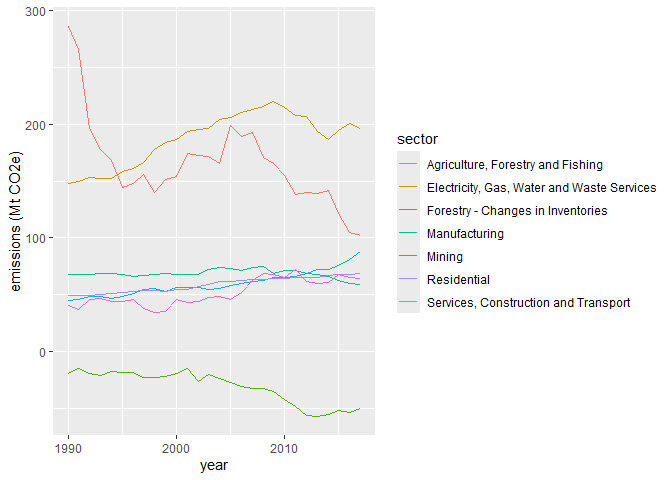
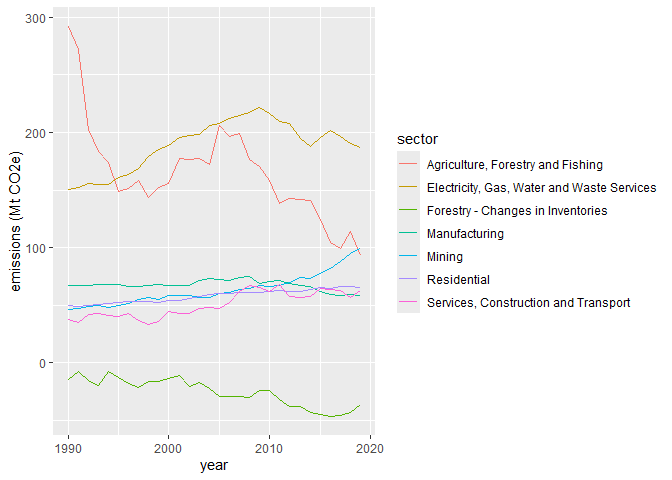
update NGA data to 2022

diff --git a/R/reports/reports.md b/R/reports/reports.md
@@ -1,6 +1,6 @@
 # R reproducible reports with Quarto
 UQ Library
-2024-10-08
+2024-10-10
 
 - [Setting up](#setting-up)
 - [What are we going to learn?](#what-are-we-going-to-learn)
@@ -123,9 +123,9 @@ We are going to deal with greenhouse gas emissions for Australia, so
 let’s add a header and some text about the source of the data and how to
 import it. For example:
 
-    ## National Greenhouse Gas Inventory data
+    ## National Greenhouse Gas data
 
-    Our data comes from the NGA, and is released under a [CC-BY](https://creativecommons.org/licenses/by/4.0/) licence. The latest release can be found on [this page](https://www.industry.gov.au/data-and-publications/national-inventory-reports)
+    Our data is extracted from the _National Inventory by Economic Sector_ dataset, which is part of the _National Greenhouse Accounts_, and is released under a [CC-BY](https://creativecommons.org/licenses/by/4.0/) licence. The latest release can be found on [this page](https://www.dcceew.gov.au/climate-change/publications/national-greenhouse-accounts-2022/national-inventory-by-economic-sector-2022).
 
     The values are reported in Mt CO<sub>2</sub>-e.
 
@@ -163,11 +163,11 @@ Now, try to render the document and see what it looks like.
 #### Challenge 2
 
 Inside a new chunk, add some code to import the dataset located
-[here](https://raw.githubusercontent.com/uqlibrary/technology-training/master/R/reports/aus_ghg_2017.csv)
+[here](https://raw.githubusercontent.com/uqlibrary/technology-training/master/R/reports/aus_ghg_2019.csv)
 into an object called `ghg`.
 
 ``` r
-ghg <- read_csv("https://raw.githubusercontent.com/uqlibrary/technology-training/master/R/reports/aus_ghg_2017.csv")
+ghg <- read_csv("https://raw.githubusercontent.com/uqlibrary/technology-training/master/R/reports/aus_ghg_2019.csv")
 ```
 
 > Clicking “Render” will automatically save your `.qmd` file as well as
@@ -179,20 +179,20 @@ Now, we can add a chunk to show the data, by including this code in it:
 ghg
 ```
 
-    # A tibble: 28 × 8
+    # A tibble: 30 × 8
         year Agriculture, Forestry and…¹ Forestry - Changes i…² Mining Manufacturing
        <dbl>                       <dbl>                  <dbl>  <dbl>         <dbl>
-     1  1990                        286.                  -19.1   44.6          68.0
-     2  1991                        266.                  -14.8   46.1          67.9
-     3  1992                        197.                  -19.7   48.5          68.1
-     4  1993                        178.                  -21.1   48.8          68.5
-     5  1994                        168.                  -17.6   46.7          68.3
-     6  1995                        144.                  -18.3   48.7          68.1
-     7  1996                        148.                  -18.1   51.0          66.2
-     8  1997                        156.                  -22.6   54.4          66.9
-     9  1998                        140.                  -22.5   55.4          67.5
-    10  1999                        151.                  -22.0   53.0          68.8
-    # ℹ 18 more rows
+     1  1990                        292.                 -14.1    46.2          67.3
+     2  1991                        272.                  -7.10   46.9          67.2
+     3  1992                        203.                 -15.1    49.0          67.4
+     4  1993                        184.                 -19.4    49.7          67.7
+     5  1994                        174.                  -7.75   47.9          67.9
+     6  1995                        149.                 -12.3    50.1          67.7
+     7  1996                        151.                 -18.0    51.6          65.9
+     8  1997                        159.                 -21.1    55.2          66.6
+     9  1998                        144.                 -16.3    57.0          67.1
+    10  1999                        152.                 -16.4    54.8          68.4
+    # ℹ 20 more rows
     # ℹ abbreviated names: ¹`Agriculture, Forestry and Fishing`,
     #   ²`Forestry - Changes in Inventories`
     # ℹ 3 more variables: `Electricity, Gas, Water and Waste Services` <dbl>,
@@ -294,7 +294,7 @@ text**. For example, you can write the following sentence:
 > The dataset contains GHG emissions for the period
 > `` `{r} min(ghg$year)` `` to `` `{r} max(ghg$year)` ``. The maximum
 > GHG emissions recorded for the mining sector is
-> `` `{r} round(max(ghg$Mining), 2)` ``.
+> `` `{r} round(max(ghg$Mining), 2)` `` Mt CO<sub>2</sub>-e.
 
 ## Visualisation
 
@@ -341,7 +341,7 @@ to update the whole report is point the data import code to the new
 file, at the top of our document, changing the year to “2019”:
 
 ``` r
-ghg <- read_csv("https://raw.githubusercontent.com/uqlibrary/technology-training/master/R/reports/aus_ghg_2019.csv")
+ghg <- read_csv("https://raw.githubusercontent.com/uqlibrary/technology-training/master/R/reports/aus_ghg_2022.csv")
 ```
 
 Rendering again will update all the objects and visualisations for us!
